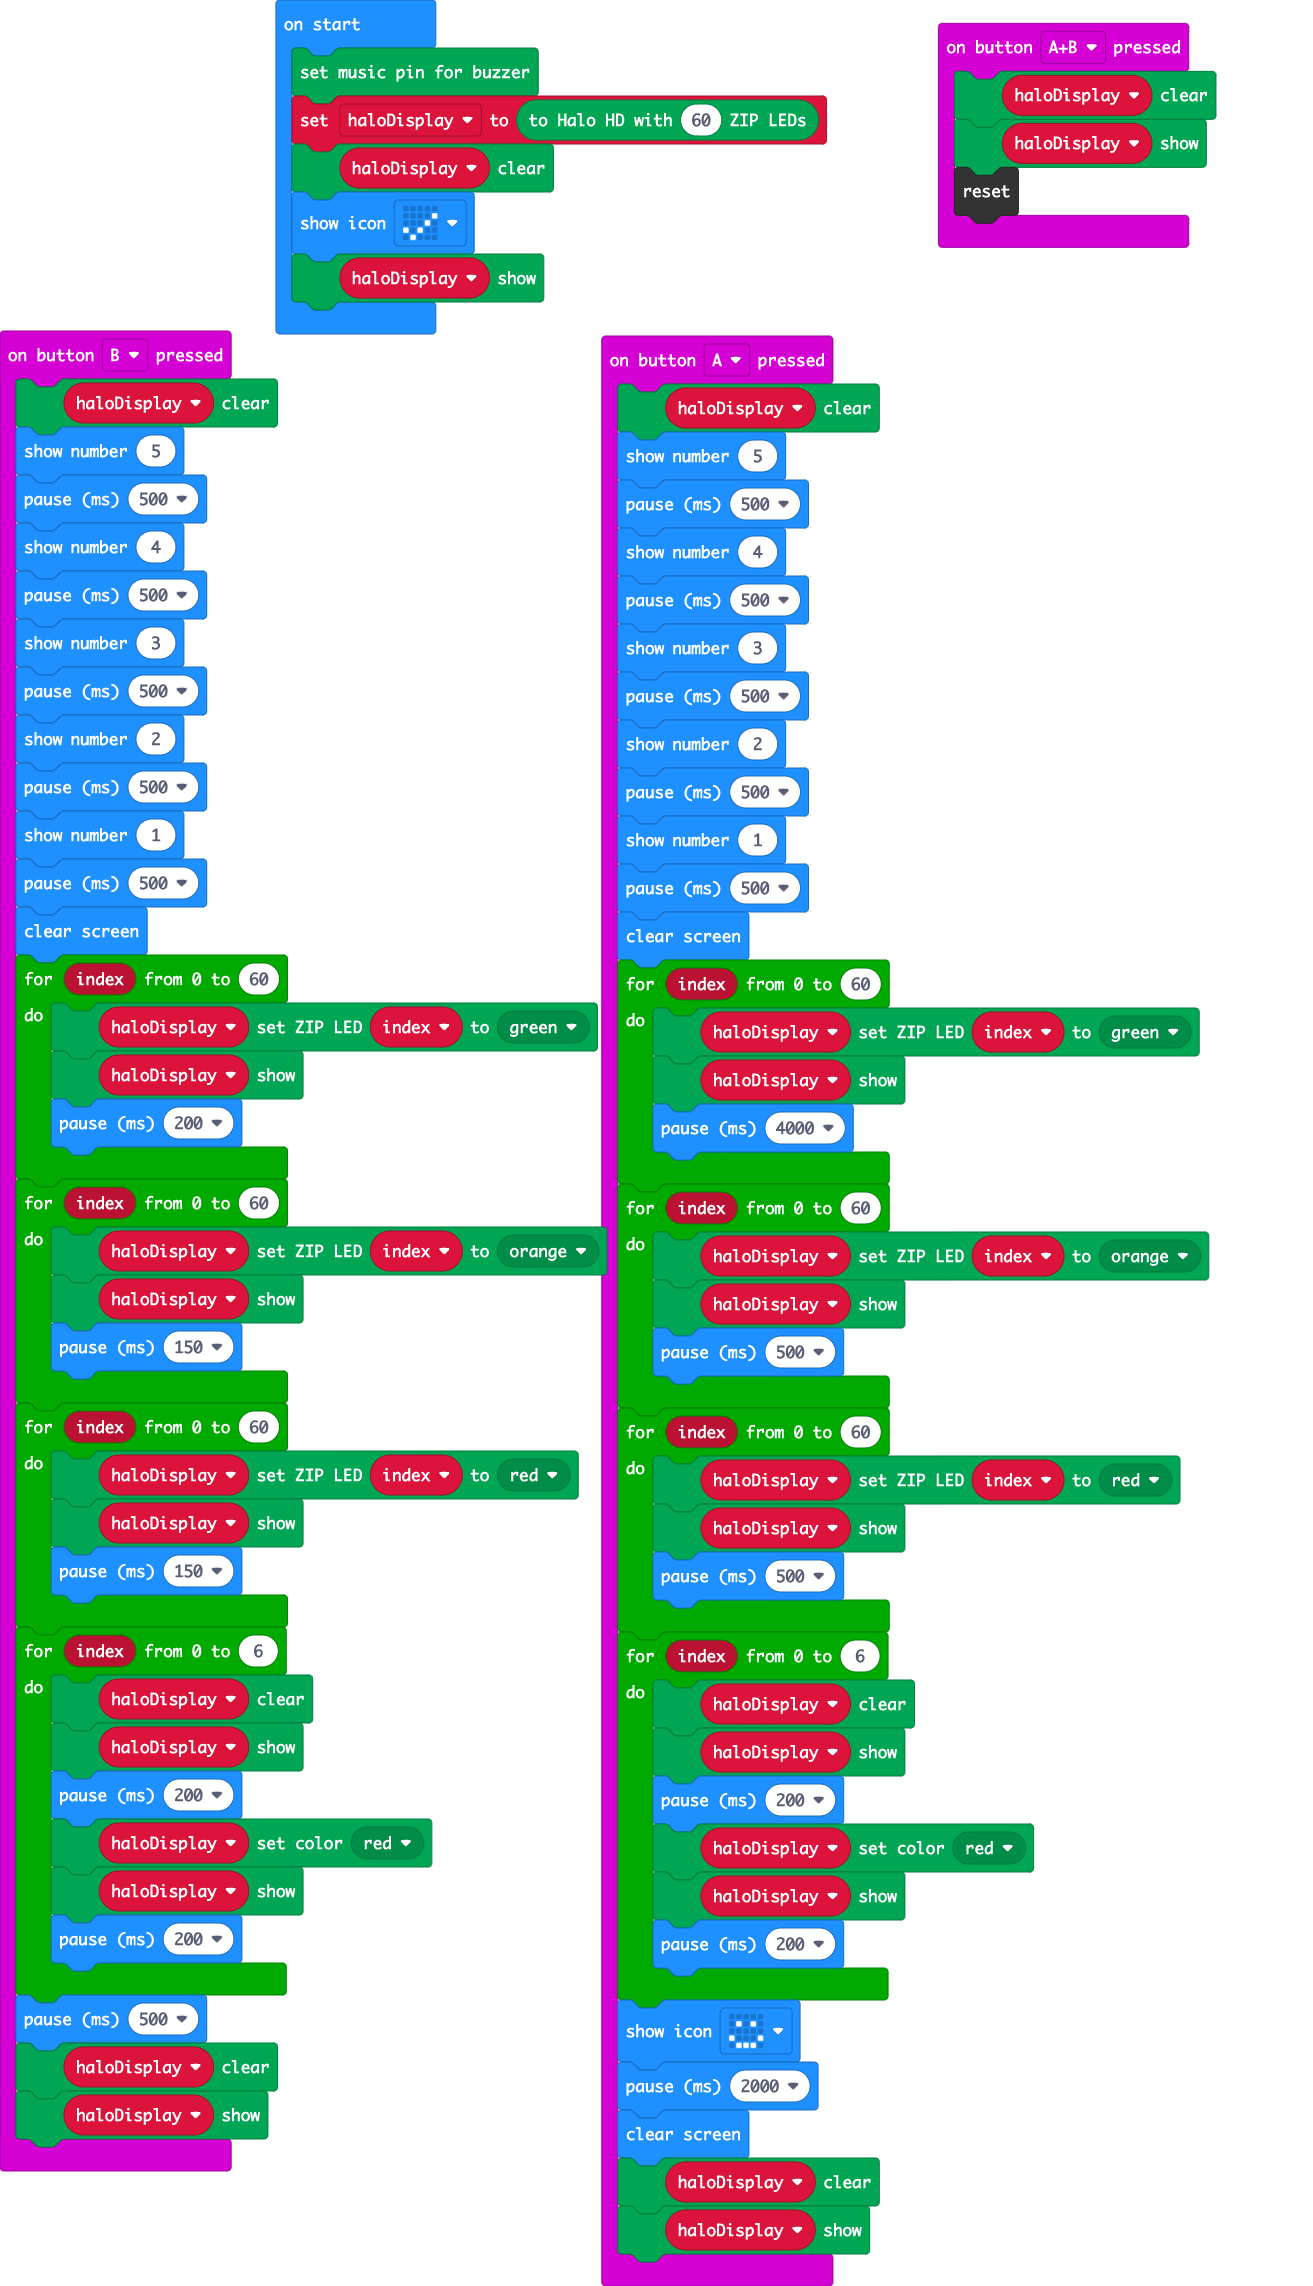
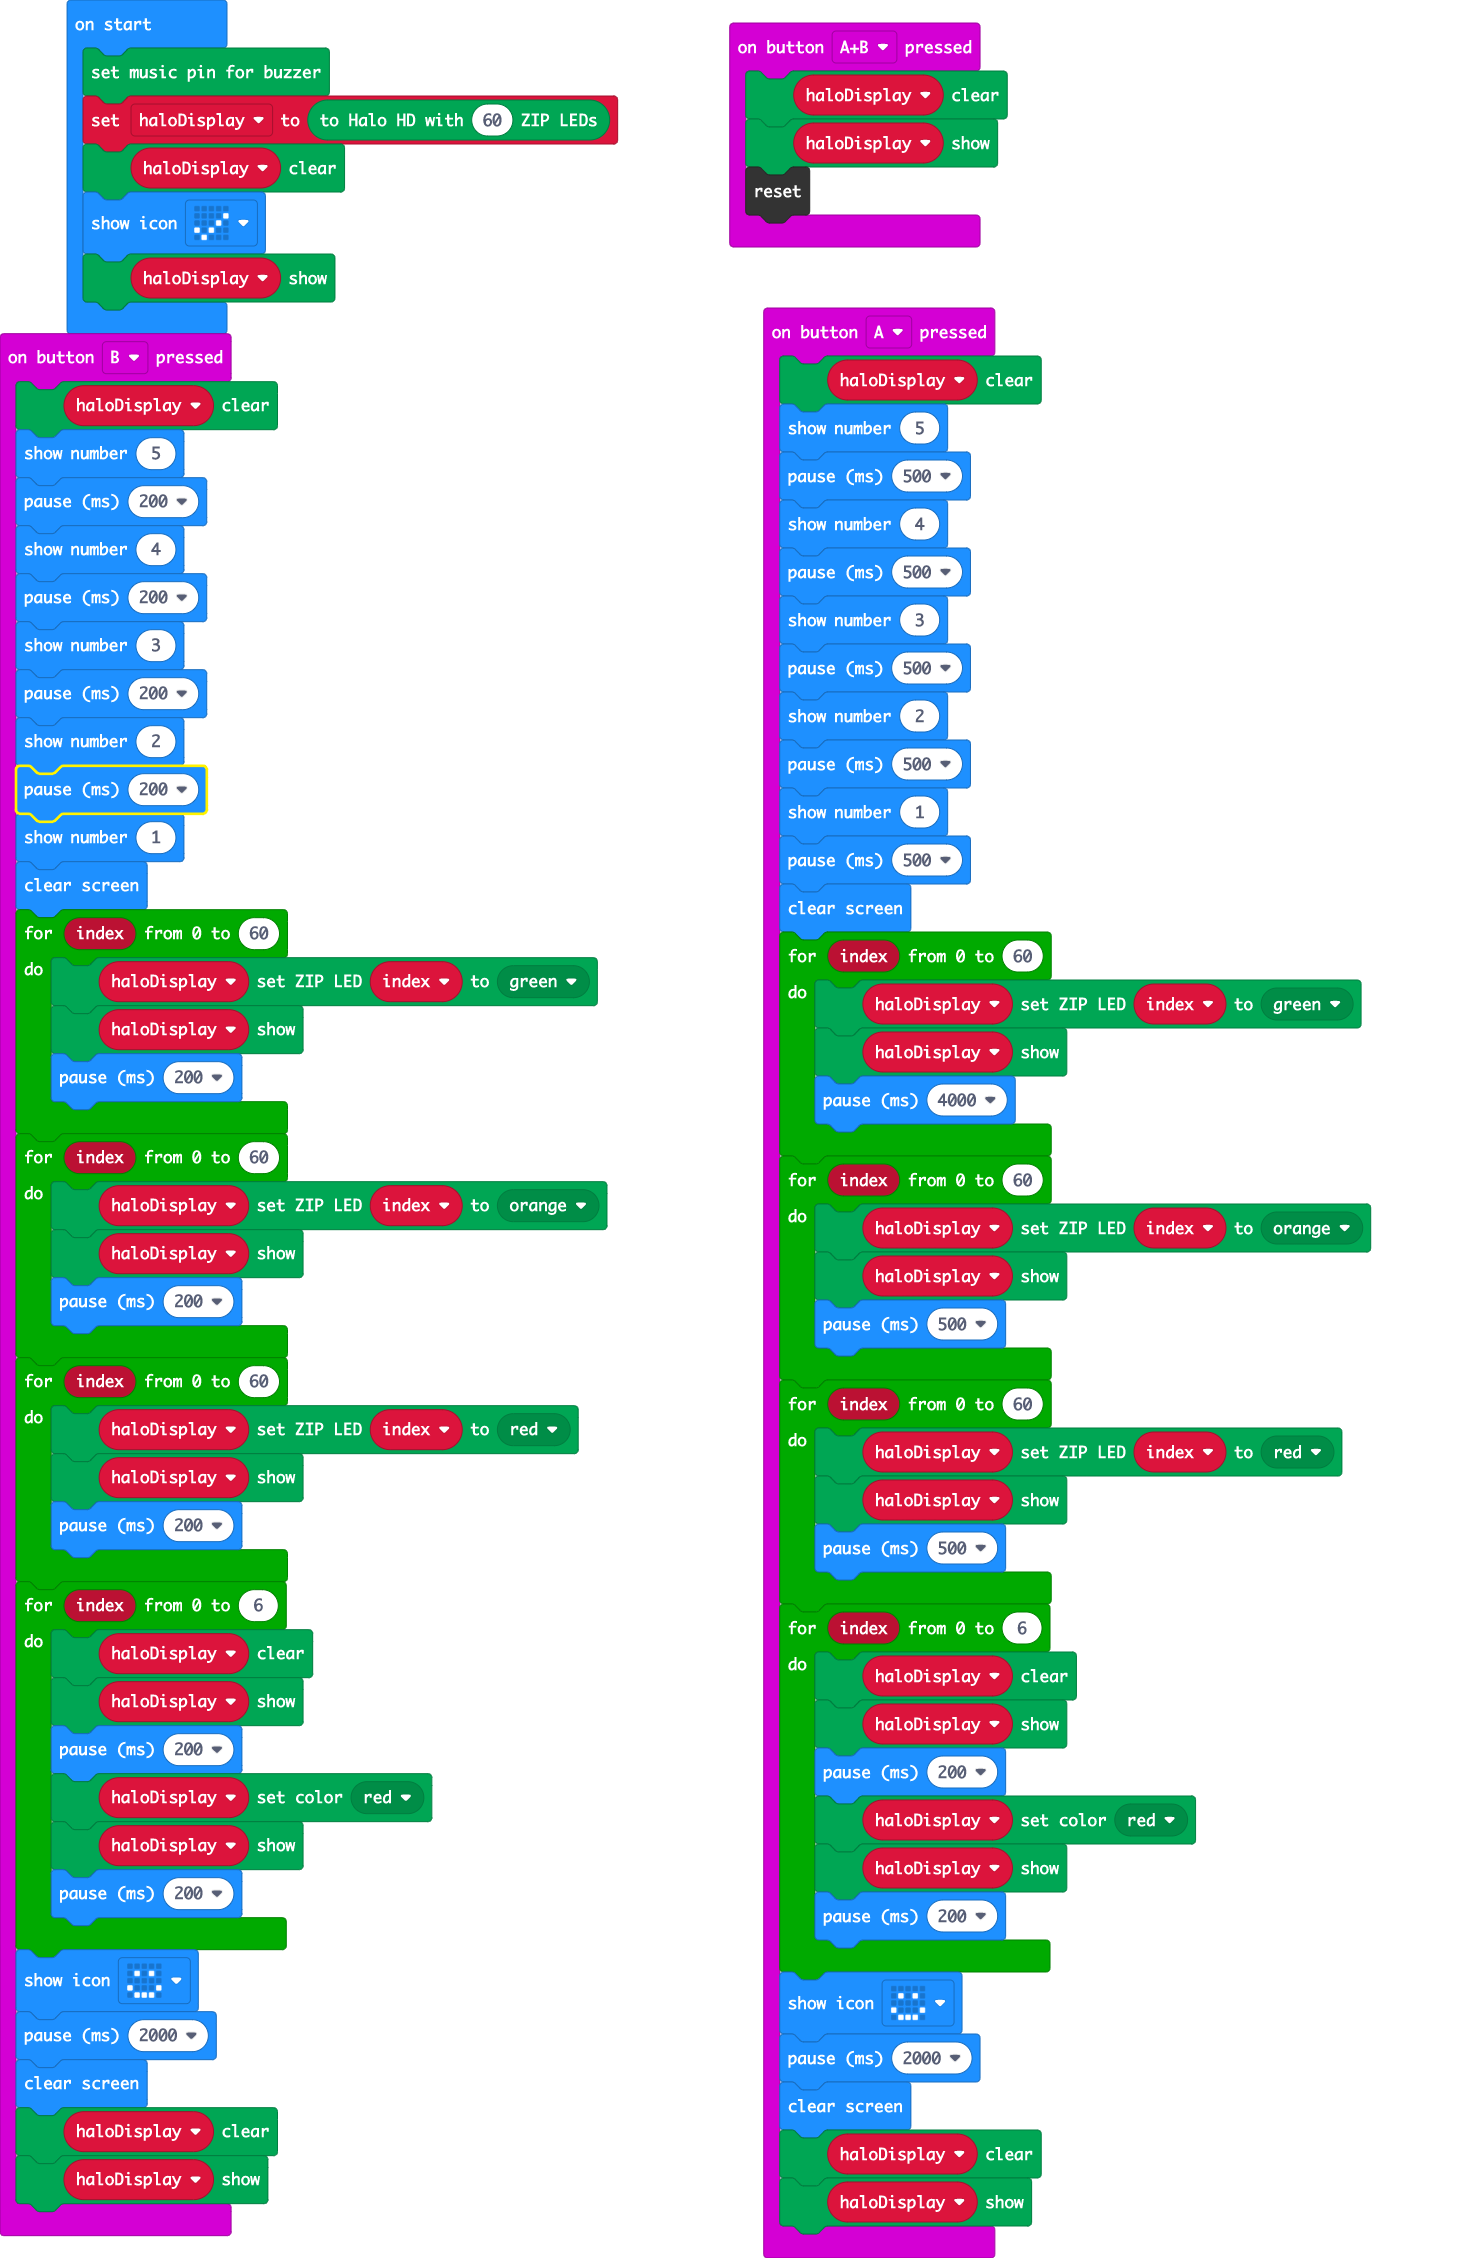
demo mode added again

diff --git a/main.ts b/main.ts
@@ -48,15 +48,14 @@ input.onButtonPressed(Button.AB, function () {
 input.onButtonPressed(Button.B, function () {
     haloDisplay.clear()
     basic.showNumber(5)
-    basic.pause(500)
+    basic.pause(200)
     basic.showNumber(4)
-    basic.pause(500)
+    basic.pause(200)
     basic.showNumber(3)
-    basic.pause(500)
+    basic.pause(200)
     basic.showNumber(2)
-    basic.pause(500)
+    basic.pause(200)
     basic.showNumber(1)
-    basic.pause(500)
     basic.clearScreen()
     for (let index = 0; index <= 60; index++) {
         haloDisplay.setZipLedColor(index, kitronik_halo_hd.colors(ZipLedColors.Green))
@@ -66,12 +65,12 @@ input.onButtonPressed(Button.B, function () {
     for (let index = 0; index <= 60; index++) {
         haloDisplay.setZipLedColor(index, kitronik_halo_hd.colors(ZipLedColors.Orange))
         haloDisplay.show()
-        basic.pause(150)
+        basic.pause(200)
     }
     for (let index = 0; index <= 60; index++) {
         haloDisplay.setZipLedColor(index, kitronik_halo_hd.colors(ZipLedColors.Red))
         haloDisplay.show()
-        basic.pause(150)
+        basic.pause(200)
     }
     for (let index = 0; index <= 6; index++) {
         haloDisplay.clear()
@@ -81,7 +80,9 @@ input.onButtonPressed(Button.B, function () {
         haloDisplay.show()
         basic.pause(200)
     }
-    basic.pause(500)
+    basic.showIcon(IconNames.Happy)
+    basic.pause(2000)
+    basic.clearScreen()
     haloDisplay.clear()
     haloDisplay.show()
 })
